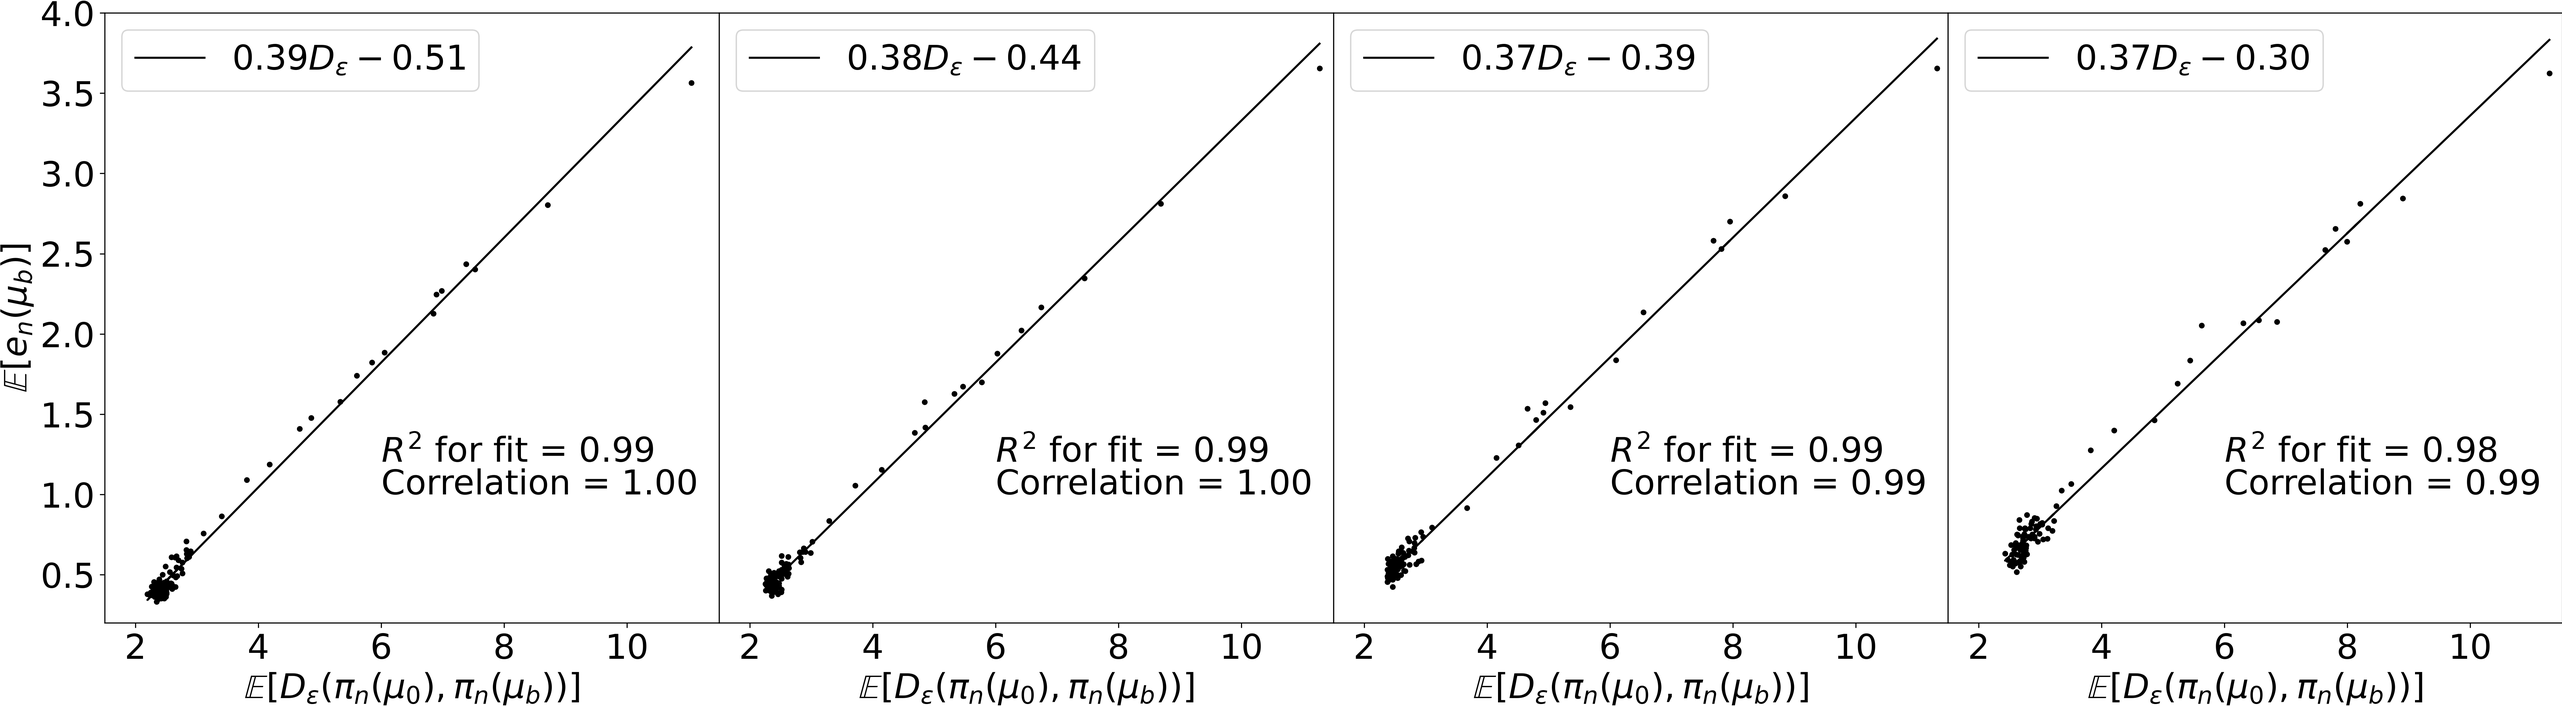
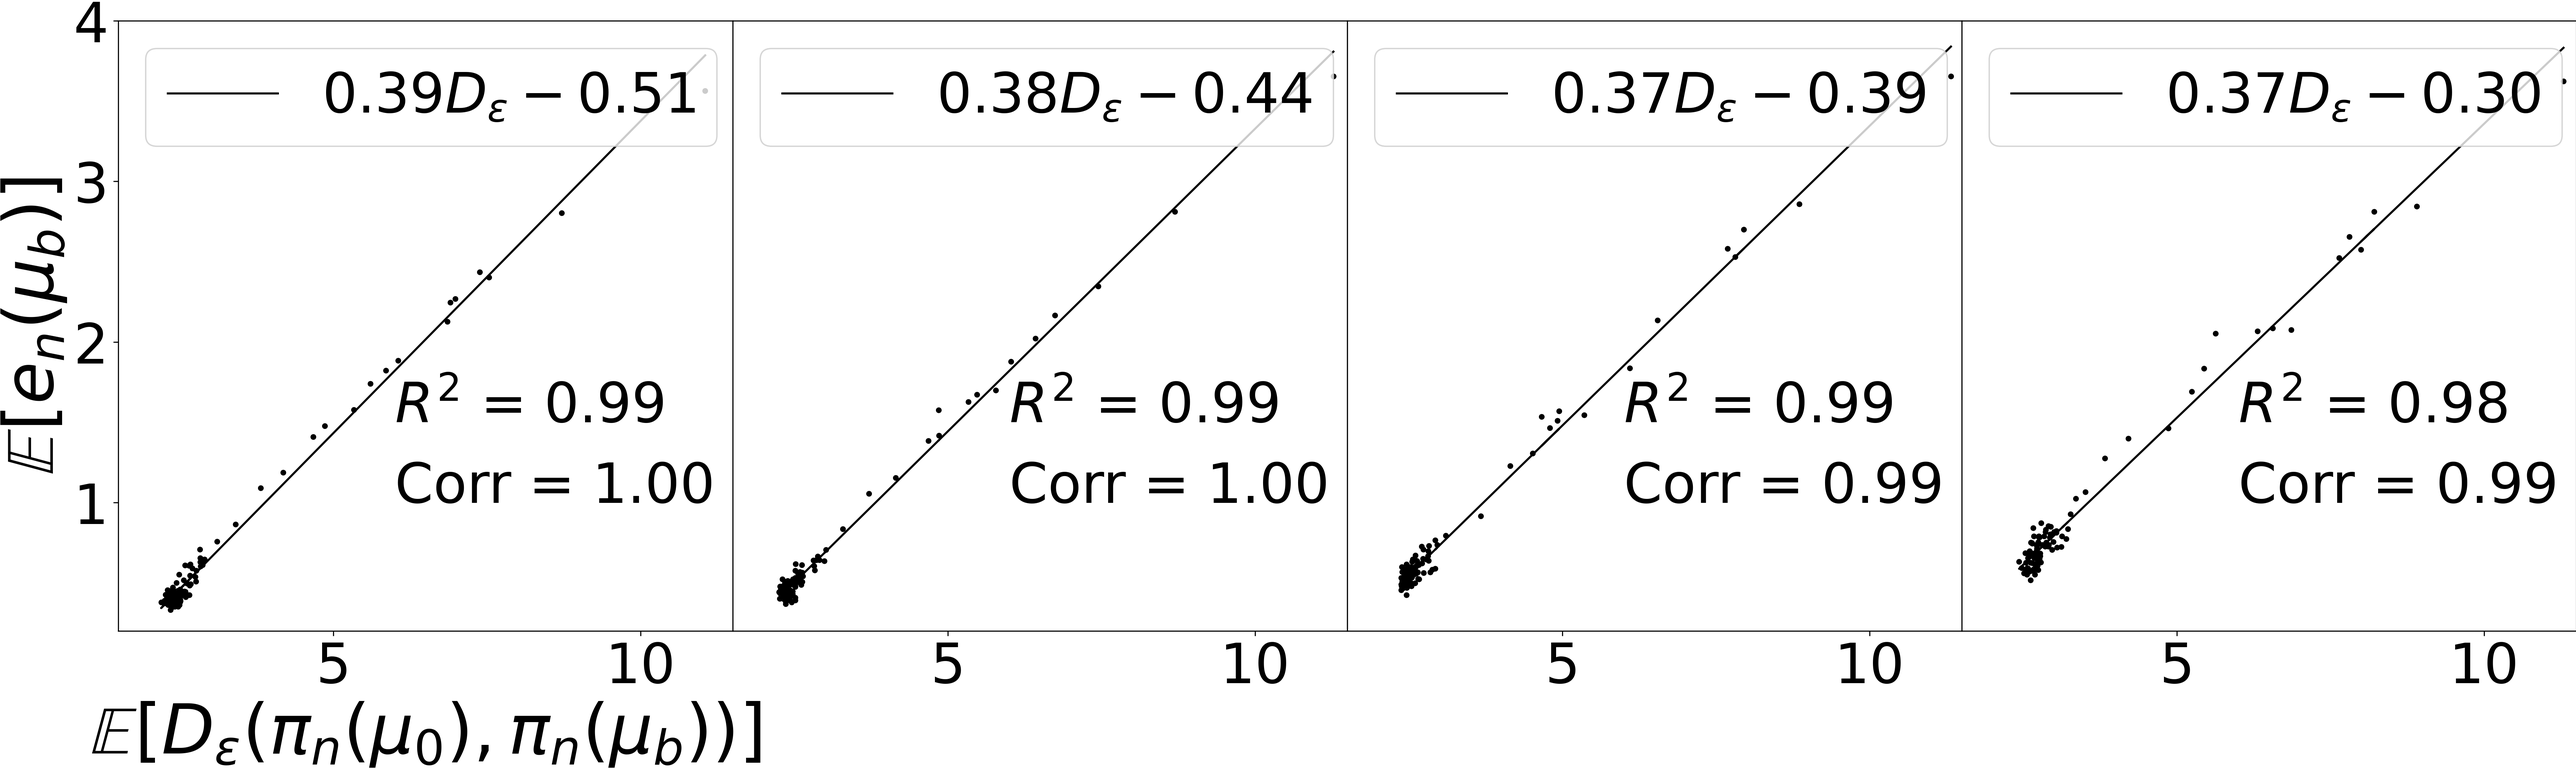
intermediate updates

diff --git a/modules/rate.py b/modules/rate.py
@@ -100,7 +100,7 @@ class BatchRate:
         self.rcs = [RateCalc(file_dict[obs_gap], obs_gap) for obs_gap in file_dict]
         self.file_dict = file_dict 
 
-    def plot(self, folder, tag, obs_cov, ylim, fsize=30):
+    def plot(self, folder, tag, obs_cov, ylim, fsize=30, linewidth=5):
         fig = plt.figure(figsize=(8 * len(self.file_dict), 8))
         axs = []
        
@@ -110,19 +110,20 @@ class BatchRate:
                 file.write('{0:.6f} $\pm$ {3:.6f} & {1:.6f} $\pm$ {4:.6f} & {2:.6f} $\pm$ {5:.6f}\\\\\n\\hline\n'.format(*self.rcs[i].popt, *(1.96 * np.diag(self.rcs[i].pcov))))
                 if i == 0:
                     axs.append(fig.add_subplot(1, len(self.file_dict), i+1))
-                    axs[i].set_ylabel(r'$\mathbb{E}[D_\varepsilon\left(\pi_n(\mu_0), \pi_n(\mu_b)\right)]$', fontsize=fsize)
+                    axs[i].set_ylabel(r'$\mathbb{E}[D_\varepsilon\left(\pi_n(\mu_0), \pi_n(\mu_b)\right)]$', fontsize=fsize+10)
+                    axs[i].set_xlabel(r'time ($t=ng$)', fontsize=fsize+10)
                 else:
                     axs.append(fig.add_subplot(1, len(self.file_dict), i+1, sharey=axs[0], sharex=axs[0]))
                     axs[i].get_yaxis().set_visible(False)
                 axs[i].tick_params(axis='both', which='major', labelsize=fsize)
                 axs[i].tick_params(axis='both', which='minor', labelsize=fsize)
                 dist, phy_time = self.rcs[i].collect_data()
-                axs[i].scatter(phy_time, dist, s=10, c='grey', alpha=0.3)
-                label = r'${:.2f}\,\exp(-{:.2f}t) + {:.2f}$'.format(*self.rcs[i].popt)
-                axs[i].plot(self.rcs[i].phy_time, self.rcs[i].f(self.rcs[i].phy_time), c='black', label=label)
-                axs[i].plot(self.rcs[i].phy_time, self.rcs[i].dist, c='black', label=r'mean $D_\varepsilon$', linestyle='dashed')
-                axs[i].text(0.9, 8.0, r'$R^2$ for fit = {:.2f}'.format(self.rcs[i].r_squared), fontsize=fsize)
-                axs[i].set_xlabel(r'time ($t=ng$)', fontsize=fsize)
+                axs[i].scatter(phy_time, dist, s=30, c='grey', alpha=0.3)
+                label = r'$\lambda = {:.2f}$'.format(self.rcs[i].popt[1])
+                axs[i].plot(self.rcs[i].phy_time, self.rcs[i].f(self.rcs[i].phy_time), c='black', label=label, linewidth=linewidth)
+                axs[i].plot(self.rcs[i].phy_time, self.rcs[i].dist, c='black', label=r'mean $D_\varepsilon$', linestyle='dashed',linewidth=linewidth)
+                axs[i].text(1.5, 5.0, r'$R^2$ = {:.2f}'.format(self.rcs[i].r_squared), fontsize=fsize)
+               
                 axs[i].set_title(r'$g = {:.2f},\,\sigma^2= {:.2f}$'.format(obs_gap, obs_cov), fontsize=fsize)
                 axs[i].legend(fontsize=fsize-0, loc='upper right')
                 if ylim is not None:
@@ -139,7 +140,7 @@ class BatchRate2:
         self.rcs = [RateCalc(file_dict[obs_cov], obs_gap) for obs_cov in file_dict]
         self.file_dict = file_dict 
 
-    def plot(self, folder, tag, ylim, fsize=30):
+    def plot(self, folder, tag, ylim, fsize=30, linewidth=5):
         fig = plt.figure(figsize=(8 * len(self.file_dict), 8))
         axs = []
         with open('{}/p_rate_{}.txt'.format(folder, tag), 'w') as file:
@@ -148,19 +149,20 @@ class BatchRate2:
                 file.write('{0:.6f} $\pm$ {3:.6f} & {1:.6f} $\pm$ {4:.6f} & {2:.6f} $\pm$ {5:.6f}\\\\\n\\hline\n'.format(*self.rcs[i].popt, *(1.96 * np.diag(self.rcs[i].pcov))))
                 if i == 0:
                     axs.append(fig.add_subplot(1, len(self.file_dict), i+1))
-                    axs[i].set_ylabel(r'$\mathbb{E}[D_\varepsilon\left(\pi_n(\mu_0), \pi_n(\mu_b)\right)]$', fontsize=fsize)
+                    axs[i].set_ylabel(r'$\mathbb{E}[D_\varepsilon\left(\pi_n(\mu_0), \pi_n(\mu_b)\right)]$', fontsize=fsize+10)
+                    axs[i].set_xlabel(r'time ($t=ng$)', fontsize=fsize+10)
                 else:
                     axs.append(fig.add_subplot(1, len(self.file_dict), i+1, sharey=axs[0], sharex=axs[0]))
                     axs[i].get_yaxis().set_visible(False)
                 axs[i].tick_params(axis='both', which='major', labelsize=fsize)
                 axs[i].tick_params(axis='both', which='minor', labelsize=fsize)
                 dist, phy_time = self.rcs[i].collect_data()
-                axs[i].scatter(phy_time, dist, s=10, c='grey', alpha=0.3)
-                label = r'${:.2f}\,\exp(-{:.2f}t) + {:.2f}$'.format(*self.rcs[i].popt)
-                axs[i].plot(self.rcs[i].phy_time, self.rcs[i].f(self.rcs[i].phy_time), c='black', label=label)
-                axs[i].plot(self.rcs[i].phy_time, self.rcs[i].dist, c='black', label=r'mean $D_\varepsilon$', linestyle='dashed')
-                axs[i].text(0.9, 8.0, r'$R^2$ for fit = {:.2f}'.format(self.rcs[i].r_squared), fontsize=fsize)
-                axs[i].set_xlabel(r'time ($t=ng$)', fontsize=fsize)
+                axs[i].scatter(phy_time, dist, s=30, c='grey', alpha=0.3)
+                label = r'$\lambda = {:.2f}$'.format(self.rcs[i].popt[1])
+                axs[i].plot(self.rcs[i].phy_time, self.rcs[i].f(self.rcs[i].phy_time), c='black', label=label, linewidth=linewidth)
+                axs[i].plot(self.rcs[i].phy_time, self.rcs[i].dist, c='black', label=r'mean $D_\varepsilon$', linestyle='dashed', linewidth=linewidth)
+                axs[i].text(2.0, 5.0, r'$R^2$ = {:.2f}'.format(self.rcs[i].r_squared), fontsize=fsize)
+               
                 axs[i].set_title(r'$g = {:.2f},\,\sigma^2= {:.2f}$'.format(self.rcs[i].obs_gap, obs_cov), fontsize=fsize)
                 axs[i].legend(fontsize=fsize-0, loc='upper right')
                 if ylim is not None:

diff --git a/modules/l2.py b/modules/l2.py
@@ -109,13 +109,14 @@ class BatchL2:
     def __init__(self, file_dicts):
         self.file_dicts = file_dicts 
 
-    def plot(self, folder, tag, obs_cov, ylim, fsize=30, labels=[], linestyles=[]):
+    def plot(self, folder, tag, obs_cov, ylim, fsize=30, labels=[], linestyles=[], linewidth=5):
         fig = plt.figure(figsize=(8 * len(self.file_dicts[0]), 8))
         axs = []
         for i, obs_gap in enumerate(self.file_dicts[0]):
             if i == 0:
                 axs.append(fig.add_subplot(1, len(self.file_dicts[0]), i+1))
-                axs[i].set_ylabel(r'$\mathbb{E}[e_n]$', fontsize=fsize)
+                axs[i].set_ylabel(r'$\mathbb{E}[e_n]$', fontsize=fsize+10)
+                axs[i].set_xlabel(r'time ($t=ng$)', fontsize=fsize+10)
             else:
                 axs.append(fig.add_subplot(1, len(self.file_dicts[0]), i+1, sharey=axs[0], sharex=axs[0]))
                 axs[i].get_yaxis().set_visible(False)
@@ -123,17 +124,17 @@ class BatchL2:
             axs[i].tick_params(axis='both', which='major', labelsize=fsize)
             axs[i].tick_params(axis='both', which='minor', labelsize=fsize)
             #axs[i].set_title(r'$g = {:.2f},\,\sigma= {:.2f}$'.format(obs_gap, obs_cov), fontsize=fsize)
-            axs[i].set_xlabel(r'time ($t=ng$)', fontsize=fsize)
+            
             if ylim is not None:
                 axs[i].set_ylim(*ylim)
 
             for j, file_dict in enumerate(self.file_dicts):
                 l2 = L2Error(file_dict[obs_gap], obs_gap)
                 l2.collect_mean_data()
-                axs[i].plot(l2.phy_time, l2.l2_error, c='black', label=labels[j], linestyle=linestyles[j])
+                axs[i].plot(l2.phy_time, l2.l2_error, c='black', label=labels[j], linestyle=linestyles[j], linewidth=linewidth)
                 
             
-            axs[i].plot(l2.phy_time, np.ones_like(l2.phy_time) * np.sqrt(obs_cov), label='$\sigma$', linestyle='dotted', c='grey')
+            axs[i].plot(l2.phy_time, np.ones_like(l2.phy_time) * np.sqrt(obs_cov), label='$\sigma$', linestyle='dotted', c='black', linewidth=linewidth)
             axs[i].legend(fontsize=fsize, loc='upper right')
             
         fig.subplots_adjust(wspace=0, hspace=0)
@@ -146,13 +147,14 @@ class BatchL22:
         self.file_dicts = file_dicts
         self.obs_gap = obs_gap
 
-    def plot(self, folder, tag, ylim, fsize=30, labels=[], linestyles=[]):
+    def plot(self, folder, tag, ylim, fsize=30, labels=[], linestyles=[], linewidth=5):
         fig = plt.figure(figsize=(8 * len(self.file_dicts[0]), 8))
         axs = []
         for i, obs_cov in enumerate(self.file_dicts[0]):
             if i == 0:
                 axs.append(fig.add_subplot(1, len(self.file_dicts[0]), i+1))
-                axs[i].set_ylabel(r'$\mathbb{E}[e_n]$', fontsize=fsize)
+                axs[i].set_ylabel(r'$\mathbb{E}[e_n]$', fontsize=fsize+10)
+                axs[i].set_xlabel(r'time ($t=ng$)', fontsize=fsize+10)
             else:
                 axs.append(fig.add_subplot(1, len(self.file_dicts[0]), i+1, sharey=axs[0], sharex=axs[0]))
                 axs[i].get_yaxis().set_visible(False)
@@ -160,17 +162,17 @@ class BatchL22:
             axs[i].tick_params(axis='both', which='major', labelsize=fsize)
             axs[i].tick_params(axis='both', which='minor', labelsize=fsize)
             #axs[i].set_title(r'$g = {:.2f},\,\sigma= {:.2f}$'.format(self.obs_gap, obs_cov), fontsize=fsize)
-            axs[i].set_xlabel(r'time ($t=ng$)', fontsize=fsize)
+            
             if ylim is not None:
                 axs[i].set_ylim(*ylim)
 
             for j, file_dict in enumerate(self.file_dicts):
                 l2 = L2Error(file_dict[obs_cov], self.obs_gap)
                 l2.collect_mean_data()
-                axs[i].plot(l2.phy_time, l2.l2_error, c='black', label=labels[j], linestyle=linestyles[j])
+                axs[i].plot(l2.phy_time, l2.l2_error, c='black', label=labels[j], linestyle=linestyles[j], linewidth=linewidth)
                 
             
-            axs[i].plot(l2.phy_time, np.ones_like(l2.phy_time) * np.sqrt(obs_cov), label='$\sigma$', linestyle='dotted', c='grey')
+            axs[i].plot(l2.phy_time, np.ones_like(l2.phy_time) * np.sqrt(obs_cov), label='$\sigma$', linestyle='dotted', c='black', linewidth=linewidth)
             axs[i].legend(fontsize=fsize, loc='upper right')
             
         fig.subplots_adjust(wspace=0, hspace=0)

diff --git a/modules/dvl2.py b/modules/dvl2.py
@@ -137,7 +137,8 @@ class BatchDvL2:
                 file.write('{0:.2e} $\pm$ {2:.2e} & {1:.2e} $\pm$ {3:.2e}\\\\\n\\hline\n'.format(*self.dvl2s[i].popt, *(1.96 * np.diag(self.dvl2s[i].pcov))))
                 if i == 0:
                     axs.append(fig.add_subplot(1, len(self.dist_file_dict), i+1))
-                    axs[i].set_ylabel(r'$\mathbb{E}[e_n(\mu_b)]$', fontsize=fsize)
+                    axs[i].set_ylabel(r'$\mathbb{E}[e_n(\mu_b)]$', fontsize=fsize+10)
+                    axs[i].set_xlabel(r'$\mathbb{E}[D_\varepsilon\left(\pi_n(\mu_0), \pi_n(\mu_b)\right)]$', fontsize=fsize+10)
                 else:
                     axs.append(fig.add_subplot(1, len(self.dist_file_dict), i+1, sharey=axs[0], sharex=axs[0]))
                     axs[i].get_yaxis().set_visible(False)
@@ -148,10 +149,10 @@ class BatchDvL2:
                 label = r'${:.2f}D_\varepsilon {} {:.2f}$'.format(self.dvl2s[i].popt[0], '' if self.dvl2s[i].popt[1] < 0 else '+', self.dvl2s[i].popt[1])
                 axs[i].plot(self.dvl2s[i].dist, self.dvl2s[i].f(self.dvl2s[i].dist), c='black', label=label)
                 
-                axs[i].set_xlabel(r'$\mathbb{E}[D_\varepsilon\left(\pi_n(\mu_0), \pi_n(\mu_b)\right)]$', fontsize=fsize)
+                
                 #axs[i].set_title(r'$g = {:.2f},\,\sigma= {:.2f}$'.format(obs_gap, obs_cov), fontsize=fsize)
-                axs[i].text(6.0, 1.0, r'Correlation = {:.2f}'.format(pearsonr(self.dvl2s[i].dist, self.dvl2s[i].l2_error)[0]), fontsize=fsize)
-                axs[i].text(6.0, 1.2, r'$R^2$ for fit = {:.2f}'.format(self.dvl2s[i].r_squared), fontsize=fsize)
+                axs[i].text(6.0, 1.0, r'Corr = {:.2f}'.format(pearsonr(self.dvl2s[i].dist, self.dvl2s[i].l2_error)[0]), fontsize=fsize)
+                axs[i].text(6.0, 1.5, r'$R^2$ = {:.2f}'.format(self.dvl2s[i].r_squared), fontsize=fsize)
                 axs[i].legend(fontsize=fsize-0, loc='upper left')
                 if ylim is not None:
                     axs[i].set_ylim(*ylim)
@@ -180,7 +181,8 @@ class BatchDvL22:
                 file.write('{0:.2e} $\pm$ {2:.2e} & {1:.2e} $\pm$ {3:.2e}\\\\\n\\hline\n'.format(*self.dvl2s[i].popt, *(1.96 * np.diag(self.dvl2s[i].pcov))))
                 if i == 0:
                     axs.append(fig.add_subplot(1, len(self.dist_file_dict), i+1))
-                    axs[i].set_ylabel(r'$\mathbb{E}[e_n(\mu_b)]$', fontsize=fsize)
+                    axs[i].set_ylabel(r'$\mathbb{E}[e_n(\mu_b)]$', fontsize=fsize+10)
+                    axs[i].set_xlabel(r'$\mathbb{E}[D_\varepsilon\left(\pi_n(\mu_0), \pi_n(\mu_b)\right)]$', fontsize=fsize+10)
                 else:
                     axs.append(fig.add_subplot(1, len(self.dist_file_dict), i+1, sharey=axs[0], sharex=axs[0]))
                     axs[i].get_yaxis().set_visible(False)
@@ -191,10 +193,10 @@ class BatchDvL22:
                 label = r'${:.2f}D_\varepsilon {} {:.2f}$'.format(self.dvl2s[i].popt[0], '' if self.dvl2s[i].popt[1] < 0 else '+', self.dvl2s[i].popt[1])
                 axs[i].plot(self.dvl2s[i].dist, self.dvl2s[i].f(self.dvl2s[i].dist), c='black', label=label)
                 
-                axs[i].set_xlabel(r'$\mathbb{E}[D_\varepsilon\left(\pi_n(\mu_0), \pi_n(\mu_b)\right)]$', fontsize=fsize)
+                
                #axs[i].set_title(r'$g = {:.2f},\,\sigma= {:.2f}$'.format(self.obs_gap, obs_cov), fontsize=fsize)
-                axs[i].text(6.0, 1.0, r'Correlation = {:.2f}'.format(pearsonr(self.dvl2s[i].dist, self.dvl2s[i].l2_error)[0]), fontsize=fsize)
-                axs[i].text(6.0, 1.2, r'$R^2$ for fit = {:.2f}'.format(self.dvl2s[i].r_squared), fontsize=fsize)
+                axs[i].text(6.0, 1.0, r'Corr = {:.2f}'.format(pearsonr(self.dvl2s[i].dist, self.dvl2s[i].l2_error)[0]), fontsize=fsize)
+                axs[i].text(6.0, 1.5, r'$R^2$ = {:.2f}'.format(self.dvl2s[i].r_squared), fontsize=fsize)
                 axs[i].legend(fontsize=fsize-0, loc='upper left')
                 if ylim is not None:
                     axs[i].set_ylim(*ylim)

diff --git a/modules/trace.py b/modules/trace.py
@@ -103,7 +103,8 @@ class BatchTr:
         for i, obs_gap in enumerate(self.file_dicts[0]):
             if i == 0:
                 axs.append(fig.add_subplot(1, len(self.file_dicts[0]), i+1))
-                axs[i].set_ylabel(r'$\mathbb{E}[\tau_n]$', fontsize=fsize)
+                axs[i].set_ylabel(r'$\mathbb{E}[\tau_n]$', fontsize=fsize+10)
+                axs[i].set_xlabel(r'time ($t=ng$)', fontsize=fsize+10)
             else:
                 axs.append(fig.add_subplot(1, len(self.file_dicts[0]), i+1, sharey=axs[0], sharex=axs[0]))
                 axs[i].get_yaxis().set_visible(False)
@@ -111,7 +112,7 @@ class BatchTr:
             axs[i].tick_params(axis='both', which='major', labelsize=fsize)
             axs[i].tick_params(axis='both', which='minor', labelsize=fsize)
             #axs[i].set_title(r'$g = {:.2f},\,\sigma= {:.2f}$'.format(obs_gap, obs_cov), fontsize=fsize)
-            axs[i].set_xlabel(r'time ($t=ng$)', fontsize=fsize)
+            
             if ylim is not None:
                 axs[i].set_ylim(*ylim)
 
@@ -139,7 +140,8 @@ class BatchTr2:
         for i, obs_cov in enumerate(self.file_dicts[0]):
             if i == 0:
                 axs.append(fig.add_subplot(1, len(self.file_dicts[0]), i+1))
-                axs[i].set_ylabel(r'$\mathbb{E}[\tau_n]$', fontsize=fsize)
+                axs[i].set_ylabel(r'$\mathbb{E}[\tau_n]$', fontsize=fsize+10)
+                axs[i].set_xlabel(r'time ($t=ng$)', fontsize=fsize+10)
             else:
                 axs.append(fig.add_subplot(1, len(self.file_dicts[0]), i+1, sharey=axs[0], sharex=axs[0]))
                 axs[i].get_yaxis().set_visible(False)
@@ -147,7 +149,7 @@ class BatchTr2:
             axs[i].tick_params(axis='both', which='major', labelsize=fsize)
             axs[i].tick_params(axis='both', which='minor', labelsize=fsize)
             #axs[i].set_title(r'$g = {:.2f},\,\sigma= {:.2f}$'.format(self.obs_gap, obs_cov), fontsize=fsize)
-            axs[i].set_xlabel(r'time ($t=ng$)', fontsize=fsize)
+            
             if ylim is not None:
                 axs[i].set_ylim(*ylim)
 

diff --git a/effect of obs gap/plot.py b/effect of obs gap/plot.py
@@ -53,9 +53,9 @@ del dist_dict_all[0.05]
 del error_dict_all_1[0.05]
 del error_dict_all_2[0.05]
 
-#rate.BatchRate(dist_dict_all).plot(plot_folder, tag='obs_gap_all', obs_cov=obs_cov, ylim=(0.5, 12.0), fsize=25)
+rate.BatchRate(dist_dict_all).plot(plot_folder, tag='obs_gap_all', obs_cov=obs_cov, ylim=(0.5, 12.0), fsize=40)
 l2.BatchL2([error_dict_all_1, error_dict_all_2])\
-    .plot(plot_folder, tag='obs_gap_all', obs_cov=obs_cov, ylim=(0.0, 4.0), fsize=25, labels=['unbiased', 'biased'], linestyles=['solid', 'dashed'])
-# trace.BatchTr([error_dict_all_1, error_dict_all_2])\
-#     .plot(plot_folder, tag='obs_gap_all', obs_cov=obs_cov, ylim=(0.0, 40.0), fsize=25, labels=['unbiased', 'biased'], linestyles=['solid', 'dashed'])
-# dvl2.BatchDvL2(dist_dict_all, error_dict_all_2).plot(plot_folder, tag='obs_gap_all', obs_cov=obs_cov, ylim=(0.2, 4.0), xlim=(1.5, 11.5), fsize=25)
+    .plot(plot_folder, tag='obs_gap_all', obs_cov=obs_cov, ylim=(0.0, 4.0), fsize=40, labels=['unbiased', 'biased'], linestyles=['solid', 'dashed'])
+trace.BatchTr([error_dict_all_1, error_dict_all_2])\
+     .plot(plot_folder, tag='obs_gap_all', obs_cov=obs_cov, ylim=(0.0, 40.0), fsize=40, labels=['unbiased', 'biased'], linestyles=['solid', 'dashed'])
+dvl2.BatchDvL2(dist_dict_all, error_dict_all_2).plot(plot_folder, tag='obs_gap_all', obs_cov=obs_cov, ylim=(0.2, 4.0), xlim=(1.5, 11.5), fsize=40)

diff --git a/effect of obs cov/plot.py b/effect of obs cov/plot.py
@@ -48,9 +48,9 @@ for folder in glob.glob('{}/*'.format(error_folder)):
     else:
         error_dict_all_2[obs_cov].append(file)
 
-rate.BatchRate2(dist_dict_all, obs_gap).plot(plot_folder, tag='obs_cov_all', ylim=(0.5, 12.0), fsize=25)
+rate.BatchRate2(dist_dict_all, obs_gap).plot(plot_folder, tag='obs_cov_all', ylim=(0.5, 12.0), fsize=40, linewidth=5)
 l2.BatchL22([error_dict_all_1, error_dict_all_2], obs_gap)\
-   .plot(plot_folder, tag='obs_cov_all', ylim=(0.0, 4.0), fsize=25, labels=['unbiased', 'biased'], linestyles=['solid', 'dashed'])
-# trace.BatchTr2([error_dict_all_1, error_dict_all_2], obs_gap)\
-#    .plot(plot_folder, tag='obs_cov_all', ylim=(0.0, 20.0), fsize=25, labels=[r'unbiased', 'biased'], linestyles=['solid', 'dashed'])
-# dvl2.BatchDvL22(dist_dict_all, error_dict_all_2, obs_gap).plot(plot_folder, tag='obs_cov_all', ylim=(0.2, 4.0), xlim=(1.5, 11.5), fsize=25)
+   .plot(plot_folder, tag='obs_cov_all', ylim=(0.0, 4.0), fsize=40, labels=['unbiased', 'biased'], linestyles=['solid', 'dashed'], linewidth=5)
+trace.BatchTr2([error_dict_all_1, error_dict_all_2], obs_gap)\
+    .plot(plot_folder, tag='obs_cov_all', ylim=(0.0, 20.0), fsize=40, labels=[r'unbiased', 'biased'], linestyles=['solid', 'dashed'])
+dvl2.BatchDvL22(dist_dict_all, error_dict_all_2, obs_gap).plot(plot_folder, tag='obs_cov_all', ylim=(0.2, 4.0), xlim=(1.5, 11.5), fsize=40)
